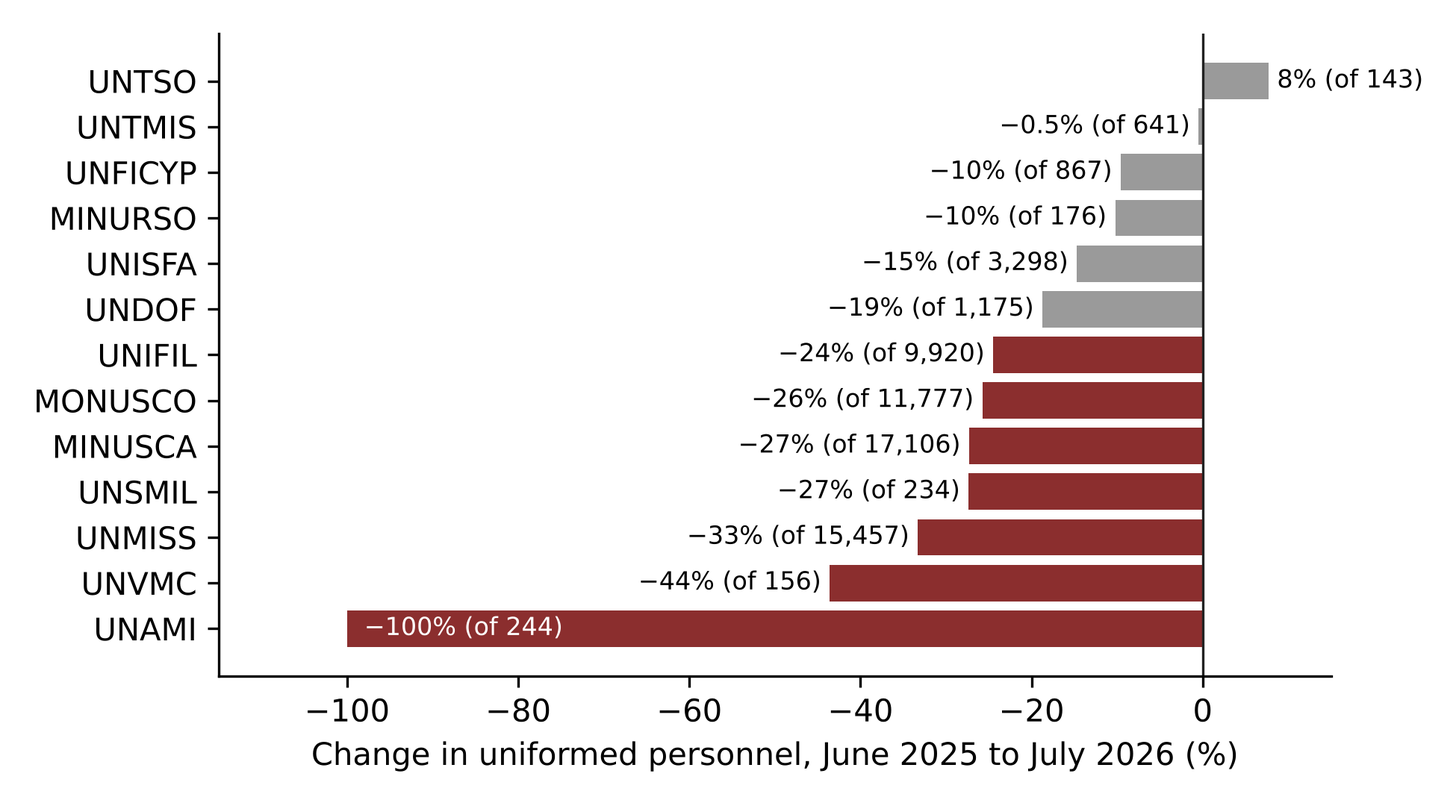
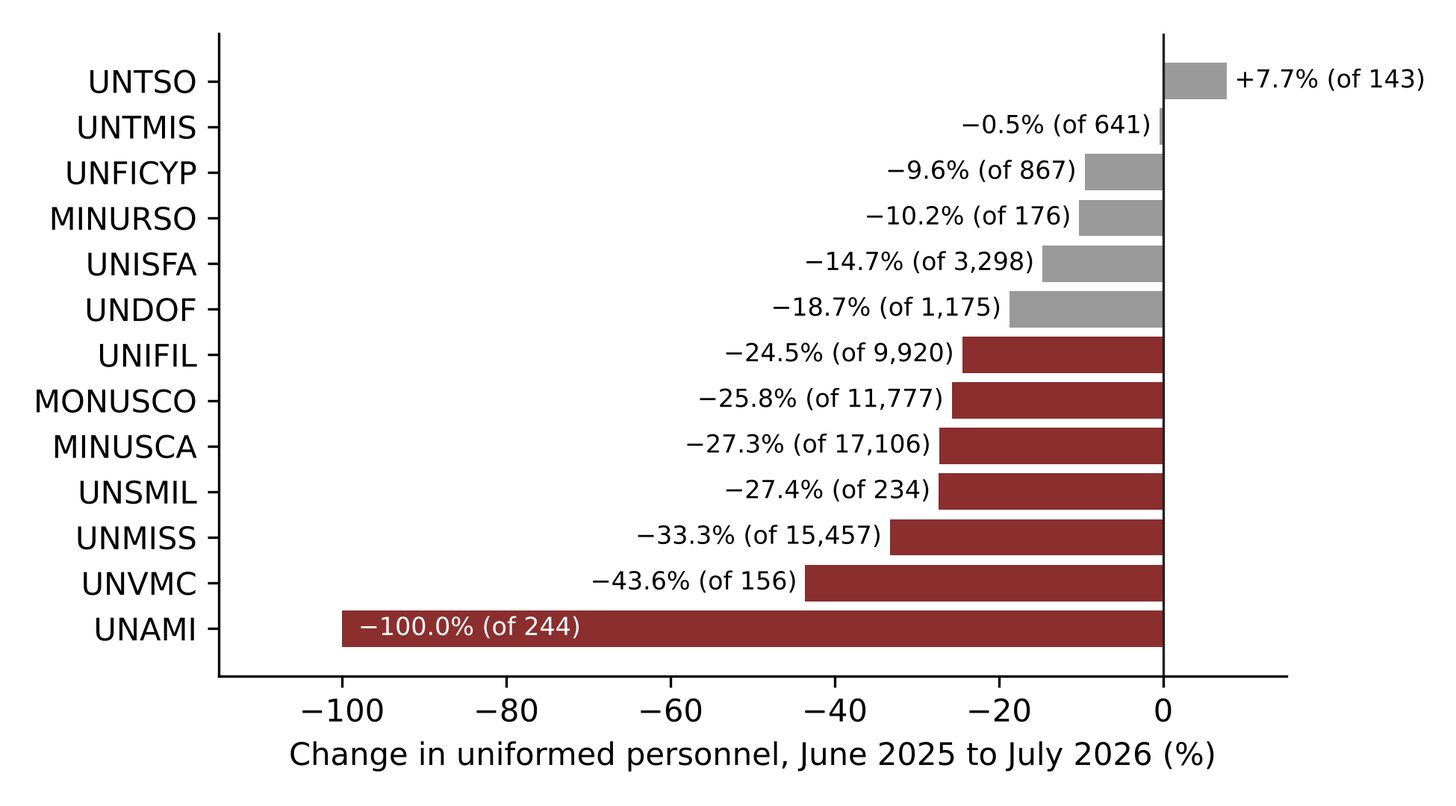
Coleman and Li contribution types (X11), Bangladesh against the reported UN letter (X12), exact wild bootstrap, C6 split saved, clearer figures

diff --git a/code/02_extra_checks.py b/code/02_extra_checks.py
@@ -7,18 +7,35 @@ Each is labelled as such in tables/extra_checks.csv and in the paper:
       (11 countries: Ethiopia and Tanzania tie for tenth place with 1,533 each; ties share the rank)
   X4  H2 without South Africa, whose contingent fell by 93%
   X5  H1 without South Africa (diagnostic for H1's low R-squared)
-  X6  Placebo C3 with UNSOM and UNTMIS treated as one mission: S/RES/2753 (2024), para. 2, renamed UNSOM
-      as UNTMIS from 1 November 2024; the plan's literal definitions treat UNSOM as closing and UNTMIS as new
+  X6  Placebo C3 with UNSOM and UNTMIS treated as one mission: S/RES/2753 (2024), para. 2, decided that
+      UNSOM "shall be called" UNTMIS and that UNTMIS "shall begin the formal transition of its functions
+      from 1 November 2024"; the UN's figures list the mission as UNTMIS from November 2024, and the plan's
+      literal definitions treat UNSOM as closing and UNTMIS as new
   X7  The cut by contributor size (the 10 largest by June 2025 personnel, 11 countries because of the tie;
       other countries with 100 or more; 20 to 99; under 20), and a weighted quadratic in ln P_c0 with a
-      joint Wald test of its two terms, to compare with Coleman and Li (2026)
+      joint Wald test of its two terms, to compare with Coleman and Li (2026). The size groups are the
+      author's own and are no longer reported in the paper (see X11); the quadratic still is.
   X8  C5 with dependence D measured from all missions (in C5 every measure comes from the remaining missions)
   X9  C5 excluding only UNAMI, UNMHA and UNVMC, where the Council's decision itself removed personnel in the
       window; MINUSCA's and UNMISS's new ceilings were above their strength when adopted
   (X8 and X9 were decided before C5 was run.)
   X10 H3 with standard errors clustered by mission (CR1, t with G - 1 degrees of freedom) and a wild cluster
-      bootstrap p-value (null imposed, Webb six-point weights, 9,999 draws, fixed seed); the plan ruled out
-      clustering because there are only ten missions
+      bootstrap p-value (null imposed, Webb six-point weights), computed exactly over every combination of
+      weights for the missions whose restricted residuals are not all zero (seven of the ten: the two
+      single-cell missions and UNAMI, whose two cells both fell by 100 percent, have zero residuals, so their
+      weights cannot change the statistic); the plan ruled out clustering because there are only ten missions
+  X11 The cut by Coleman and Li's (2026, pp. 1130-1131) three types of troop contribution, replacing X7's
+      size groups in the paper: military personnel (troops, staff officers, military experts on mission)
+      by country and mission, in missions deploying at least 1,000 troops; "top" = every contribution of
+      the UN's top 10 troop contributors (here ranked by military personnel in June 2025); "token" = a
+      contribution of fewer than 40 troops and fewer than 10 military observers or staff officers
+      (read as staff officers plus experts on mission below 10) by any other country; "other" = the rest.
+      Classified in June 2025 and followed to July 2026. Output: tables/coleman_li_types.csv, and the
+      same under two other readings (the token limit applied separately; Tanzania, level with Ethiopia in
+      tenth place by all uniformed personnel, counted as a top contributor): tables/coleman_li_readings.csv
+  X12 Bangladesh's fall in uniformed personnel by mission, September 2025 to July 2026, against the
+      numbers that a UN letter of 14 October 2025 set out for each mission, as reported by Prothom Alo
+      (19 October 2025). Output: tables/bangladesh_letter.csv
 
 Usage: python code/02_extra_checks.py  (after code/01_analysis.py)
 """
@@ -153,16 +170,139 @@ p_cr1 = 2 * stats.t.sf(abs(t_hat), G - 1)
 # restricted model (null: coefficient on ln D is zero), weighted
 rr = sm.WLS(y, Xr, weights=w).fit()
 fit_r, e_r = rr.fittedvalues.to_numpy(), rr.resid.to_numpy()
-rng = np.random.default_rng(20261030)
 webb = np.array([-np.sqrt(1.5), -1.0, -np.sqrt(0.5), np.sqrt(0.5), 1.0, np.sqrt(1.5)])
-B = 9999
-t_star = np.empty(B)
-for i in range(B):
-    v = webb[rng.integers(0, 6, size=G)][groups]
-    t_star[i] = cr1_t(fit_r + e_r * v)[1]
-p_wcb = float(np.mean(np.abs(t_star) >= abs(t_hat)))
+# Exact wild cluster bootstrap. Under the null the bootstrap outcome is fit_r + e_r * v_g; t* is computed
+# with the same CR1 variance as t_hat. Missions whose restricted residuals are all zero do not affect t*,
+# so every combination of weights for the other missions is enumerated (each equally likely).
+Xt = Xu.to_numpy() * sw[:, None]
+XtX_inv = np.linalg.inv(Xt.T @ Xt)
+jx = list(Xu.columns).index("x")
+H = Xt @ XtX_inv[jx]                      # b_x = H . y (in the weighted space)
+Mres = np.eye(len(y)) - Xt @ XtX_inv @ Xt.T  # residual maker
+n_obs, k_par = Xt.shape
+adj = G / (G - 1) * (n_obs - 1) / (n_obs - k_par)
+Gmat = np.zeros((len(y), G))
+Gmat[np.arange(len(y)), groups] = 1.0
+yt_fit, et_r = fit_r * sw, e_r * sw
+informative = [g for g in range(G) if np.abs(e_r[groups == g]).max() > 1e-9]
+n_comb = 6 ** len(informative)
+exceed = 0
+for start in range(0, n_comb, 100_000):
+    codes = np.arange(start, min(start + 100_000, n_comb))
+    V = np.ones((len(codes), G))
+    for pos, g in enumerate(informative):
+        V[:, g] = webb[(codes // 6 ** pos) % 6]
+    Ys = yt_fit[None, :] + et_r[None, :] * V[:, groups]
+    bx = Ys @ H
+    U = ((Ys @ Mres) * H[None, :]) @ Gmat
+    t_star = bx / np.sqrt(adj * (U ** 2).sum(axis=1))
+    exceed += int((np.abs(t_star) >= abs(t_hat) - 1e-12).sum())
+p_wcb = exceed / n_comb
+# check the vectorised statistic against a full re-estimation for a few weight combinations
+for code in [0, 12345, n_comb - 1]:
+    v = np.ones(G)
+    for pos, g in enumerate(informative):
+        v[g] = webb[(code // 6 ** pos) % 6]
+    Ys1 = (yt_fit + et_r * v[groups])[None, :]
+    U1 = ((Ys1 @ Mres) * H[None, :]) @ Gmat
+    t1 = float((Ys1 @ H)[0] / np.sqrt(adj * (U1 ** 2).sum()))
+    assert abs(t1 - cr1_t(fit_r + e_r * v[groups])[1]) < 1e-9
+mission_names = pd.factorize(h["mission"])[1]
+print(f"X10 wild cluster bootstrap: {len(informative)} informative missions "
+      f"({', '.join(mission_names[g] for g in informative)}), {n_comb:,} combinations, p = {p_wcb:.4f}")
 rows.append({"check": "X10 H3 clustered by mission (CR1; wild cluster bootstrap)", "coef_lnD": b_hat, "se": se_hat,
              "p": p_cr1, "p_wild_bootstrap": p_wcb, "n": len(h), "n_missions": int(G)})
+
+# X11: the cut by Coleman and Li's (2026) types of troop contribution
+MIL = ["troops", "staff_officers", "experts_on_mission"]
+
+
+def mil_cells(month):
+    d = c0[(c0["month"] == month) & c0["category"].isin(MIL)]
+    p = d.pivot_table(index=["iso3", "mission"], columns="category", values="total", aggfunc="sum",
+                      fill_value=0).reindex(columns=MIL, fill_value=0)
+    p["mil"] = p[MIL].sum(axis=1)
+    return p
+
+
+def cl_types(token_rule="sum", extra_top=()):
+    m0, m1 = mil_cells(t0m), mil_cells(t1m)
+    troops_m = m0.groupby("mission")["troops"].sum()
+    big = sorted(troops_m[troops_m >= 1000].index)  # missions "deploying at least 1000 troops"
+    rank = m0.groupby("iso3")["mil"].sum().sort_values(ascending=False)
+    assert rank.iloc[9] > rank.iloc[10], "tie at tenth place"
+    top10 = list(rank.index[:10]) + list(extra_top)
+    q = m0[m0.index.get_level_values("mission").isin(big) & (m0["mil"] > 0)].copy()
+    q["mil1"] = m1["mil"].reindex(q.index).fillna(0)
+    iso = q.index.get_level_values("iso3")
+    so_ex = q["staff_officers"] + q["experts_on_mission"]
+    small = (q["troops"] < 40) & ((so_ex < 10) if token_rule == "sum" else
+                                  ((q["staff_officers"] < 10) & (q["experts_on_mission"] < 10)))
+    q["type"] = np.select([iso.isin(top10), small], ["1 top 10", "3 token"], default="2 other")
+    q["pct"] = 100 * (q["mil1"] - q["mil"]) / q["mil"]
+    new = m1[m1.index.get_level_values("mission").isin(big) & ~m1.index.isin(q.index) & (m1["mil"] > 0)]
+    return q, big, top10, new
+
+
+def summarise(q):
+    g = q.groupby("type")
+    t = pd.DataFrame({
+        "contributions": g.size(),
+        "countries": g.apply(lambda d: d.index.get_level_values("iso3").nunique()),
+        "mil_2025_06": g["mil"].sum(), "mil_2026_07": g["mil1"].sum(),
+        "median_pct": g["pct"].median(), "ended": g.apply(lambda d: int((d["mil1"] == 0).sum())),
+        "troops_2025_06": g["troops"].sum(), "staff_officers_2025_06": g["staff_officers"].sum(),
+        "experts_2025_06": g["experts_on_mission"].sum()})
+    t.loc["4 all"] = [len(q), q.index.get_level_values("iso3").nunique(), q["mil"].sum(), q["mil1"].sum(),
+                      q["pct"].median(), int((q["mil1"] == 0).sum()), q["troops"].sum(),
+                      q["staff_officers"].sum(), q["experts_on_mission"].sum()]
+    t["pct"] = 100 * (t["mil_2026_07"] - t["mil_2025_06"]) / t["mil_2025_06"]
+    t["share_2025_06"] = 100 * t["mil_2025_06"] / q["mil"].sum()
+    ints = ["contributions", "countries", "mil_2025_06", "mil_2026_07", "ended", "troops_2025_06",
+            "staff_officers_2025_06", "experts_2025_06"]
+    t[ints] = t[ints].astype(int)
+    return t
+
+
+q11, big11, top11, new11 = cl_types("sum")
+t11 = summarise(q11)
+t11.round(4).to_csv(ROOT / "tables" / "coleman_li_types.csv")
+print("X11 missions:", ", ".join(big11))
+print("X11 top 10:", ", ".join(top11))
+print("X11 cells only in July 2026:", len(new11), "with", int(new11["mil"].sum()), "military personnel")
+print(t11.round(2).to_string())
+# Other readings: the token rule applied to staff officers and experts separately; Tanzania, level with
+# Ethiopia in tenth place by all uniformed personnel in June 2025, counted as a top contributor
+var = []
+for reading, kw in [("main", {}), ("token limit of 10 applied separately", {"token_rule": "each"}),
+                    ("Tanzania also counted as a top contributor", {"extra_top": ("TZA",)})]:
+    qv, *_ = cl_types(**kw)
+    tv = summarise(qv)
+    tv.insert(0, "reading", reading)
+    var.append(tv[["reading", "contributions", "mil_2025_06", "mil_2026_07", "pct", "median_pct", "ended"]])
+var = pd.concat(var)
+var.loc["5 only in July 2026"] = ["main", len(new11), 0, int(new11["mil"].sum()), np.nan, np.nan, 0]
+var.round(4).to_csv(ROOT / "tables" / "coleman_li_readings.csv")
+print("X11 under other readings:")
+print(var.round(2).to_string())
+rows.append({"check": "X11 Coleman and Li (2026) contribution types: see tables/coleman_li_types.csv",
+             "n": len(q11), "n_missions": len(big11)})
+
+# X12: Bangladesh by mission against the reported UN letter of 14 October 2025
+# Numbers to be withdrawn per mission, as reported by Prothom Alo, "UN fund crisis: 1,313 Bangladeshi
+# peacekeepers to return home", 19 October 2025, https://en.prothomalo.com/bangladesh/70bdwl7uuz
+LETTER = {"UNMISS": 617, "MINUSCA": 341, "UNISFA": 268, "MONUSCO": 79, "MINURSO": 8}
+bgd = (c0[(c0["iso3"] == "BGD") & c0["month"].isin(["2025-09", "2026-07"]) & c0["category"].isin(a.P_CATS)]
+       .pivot_table(index="mission", columns="month", values="total", aggfunc="sum", fill_value=0))
+bgd["fall"] = bgd["2025-09"] - bgd["2026-07"]
+bgd["letter"] = pd.Series(LETTER).reindex(bgd.index)
+bgd.loc["total"] = bgd.sum()
+bgd = bgd.astype("Int64")
+bgd.to_csv(ROOT / "tables" / "bangladesh_letter.csv")
+print("X12 Bangladesh, September 2025 to July 2026, against the reported letter:")
+print(bgd.to_string())
+rows.append({"check": "X12 Bangladesh by mission against the reported UN letter: see tables/bangladesh_letter.csv",
+             "n": int(len(bgd) - 1)})
 
 out = pd.DataFrame(rows)
 (ROOT / "tables").mkdir(exist_ok=True)

diff --git a/code/03_figures.py b/code/03_figures.py
@@ -3,6 +3,7 @@
 from pathlib import Path
 
 import matplotlib
+import matplotlib.dates
 import matplotlib.ticker
 
 matplotlib.use("Agg")
@@ -32,7 +33,9 @@ for d, lab, ha, dx in [("2025-06-01", "June 2025 ", "right", -8), ("2025-10-01",
     ax.axvline(pd.Timestamp(d), color=GREY, lw=1, ls="--")
     ax.text(pd.Timestamp(d) + pd.Timedelta(days=dx), m.values.max() / 1000 * 1.005, lab, ha=ha, va="bottom", fontsize=8, color="#555555")
 ax.set_ylabel("Uniformed personnel (thousands)")
-ax.set_ylim(40, max(m.values) / 1000 * 1.06)
+ax.set_ylim(0, max(m.values) / 1000 * 1.12)  # from zero, so the height of the fall is not exaggerated
+ax.xaxis.set_major_locator(matplotlib.dates.MonthLocator(bymonth=[1, 7]))
+ax.xaxis.set_major_formatter(matplotlib.dates.DateFormatter("%b %Y"))
 ax.grid(axis="y", color="#E5E5E5", lw=0.8)
 fig.tight_layout()
 fig.savefig(FIG / "fig1_monthly_total.png", dpi=300)
@@ -46,10 +49,8 @@ mis = mis.sort_values("pct")
 fig, ax = plt.subplots(figsize=(6.5, 3.6))
 ax.barh(mis.index, mis["pct"], color=[ACCENT if p <= -20 else GREY for p in mis["pct"]])
 def pct_label(p):
-    if 0 < abs(p) < 1:  # one decimal for small changes, so -0.5% does not show as 0%
-        return ("−" if p < 0 else "") + f"{abs(p):.1f}%"
-    v = round(p)
-    return ("−" if v < 0 else "") + f"{abs(v):.0f}%"
+    # one decimal, as in Table 2; a minus sign for falls and a plus sign for rises
+    return ("−" if p < 0 else "+") + f"{abs(p):.1f}%"
 
 
 for i, (p, x0) in enumerate(zip(mis["pct"], mis["x0"])):
@@ -75,7 +76,7 @@ r = sm.WLS(s["pct"], X, weights=s["x0"]).fit()
 xs = np.linspace(np.log(s["D"].min()), np.log(s["D"].max()), 50)
 ax.plot(np.exp(xs), r.params["const"] + r.params["D"] * xs, color=INK, lw=1.2)
 # Labels with a leader line where a plain label would sit on a neighbouring circle
-LEADER = {"PAK": (-4, 16), "URY": (-22, 10), "MWI": (0, 12)}  # offsets in points
+LEADER = {"PAK": (-4, 16), "URY": (-22, 10), "MWI": (0, 12), "BGD": (-6, -26), "IND": (0, 18), "IDN": (14, -16)}  # offsets in points
 for iso in ["RWA", "NPL", "GHA", "BGD", "IND", "CHN", "ZAF", "PAK", "IDN", "URY", "MWI"]:
     if iso not in s.index:
         continue
@@ -87,7 +88,7 @@ for iso in ["RWA", "NPL", "GHA", "BGD", "IND", "CHN", "ZAF", "PAK", "IDN", "URY"
 ax.set_xscale("log")
 ax.xaxis.set_major_formatter(matplotlib.ticker.FuncFormatter(lambda v, _: f"{v:g}"))
 ax.set_xlabel("Baseline UN payments as % of 2024 military spending (log scale)")
-ax.set_ylabel("Change in personnel (%)")
+ax.set_ylabel("Change in uniformed personnel,\nJune 2025 to July 2026 (%)")
 ax.axhline(0, color="#CCCCCC", lw=0.8)
 ax.grid(color="#EEEEEE", lw=0.6)
 fig.tight_layout()

diff --git a/code/01_analysis.py b/code/01_analysis.py
@@ -235,10 +235,11 @@ def main():
     r, *_ = run_tests(c, "C5 without separately decided drawdowns (P)", t0, t1, my, P_CATS, milex, gdppc,
                       exclude_missions=C5_MISSIONS)
     reg_rows += r
+    # C6 covers H1 and H2 only; H2 includes its split into the exposure and within-mission parts
     r, *_ = run_tests(c, "C6 unweighted (P)", t0, t1, my, P_CATS, milex, gdppc, weighted=False)
-    reg_rows += [x for x in r if x["test"].startswith("H1") or x["test"].startswith("H2 total")]
+    reg_rows += [x for x in r if x["test"].startswith("H1") or x["test"].startswith("H2")]
     r, *_ = run_tests(c, "C6 threshold 20 (P)", t0, t1, my, P_CATS, milex, gdppc, min_country=20)
-    reg_rows += [x for x in r if x["test"].startswith("H1") or x["test"].startswith("H2 total")]
+    reg_rows += [x for x in r if x["test"].startswith("H1") or x["test"].startswith("H2")]
 
     reg = pd.DataFrame(reg_rows)
     reg.to_csv(TABLES / "regressions.csv", index=False)

diff --git a/README.md b/README.md
@@ -6,11 +6,11 @@ Between June 2025 and July 2026 the number of uniformed personnel in UN missions
 
 ## Main results
 
-- **The cut fell harder on the countries most dependent on UN payments.** A country whose payments were ten times larger relative to its military budget lost about 4.6 percentage points more of its personnel (coefficient on ln *D* = -2.01, 95% interval -2.94 to -1.07). About a third of this came from the missions such countries served in, and two-thirds from within-mission differences: within the same mission, their contingents were cut more on average. At the level of country-mission cells this test is significant with heteroskedasticity-robust standard errors (p = 0.012) but not with standard errors clustered by mission (p = 0.146; wild cluster bootstrap p = 0.33), a check not in the plan.
-- **Missions explain little of the variation between countries.** The four largest missions were each cut by 24% to 33%, so the change predicted from a country's missions varies little; the weighted R² of the actual on the predicted change is 0.12, below the 0.5 the analysis plan set, so H1 fails.
+- **The cut fell harder on the countries most dependent on UN payments.** A country whose payments were ten times larger relative to its military budget lost about 4.6 percentage points more of its personnel (coefficient on ln *D* = -2.01, 95% interval -2.94 to -1.07). About a third of this came from the missions such countries served in, and two-thirds from within-mission differences: within the same mission, their contingents were cut more on average. At the level of country-mission cells this test is significant with heteroskedasticity-robust standard errors (p = 0.012) but not with standard errors clustered by mission (p = 0.146; wild cluster bootstrap p = 0.32), a check not in the plan.
+- **Missions explain little of the variation between countries.** The four largest missions were each cut by 24.5% to 33.3%, so the change predicted from a country's missions varies little; the weighted R² of the actual on the predicted change is 0.12, below the 0.5 the analysis plan set, so H1 fails.
 - **The money.** At the UN's standard rate of US$1,448 per person per month, payments owed to contributing governments fell by US$259.6 million a year. Rwanda's lost payments equal 17.4% of its 2024 military spending, Nepal's 7.1% and Ghana's 4.2%. Bangladesh's fell by US$28.0 million a year (0.75%).
-- **The largest contributors lost about as much as other large contributors** (a comparison added after the main results). The 11 largest contributors in June 2025 (Ethiopia and Tanzania tie for tenth place) lost 27.4% of their personnel, about the same as the other countries with 100 or more (26.0%) and less than those with 20 to 99 (31.7%); countries with fewer than 20 lost 15.7%. For 2010–2024, [Coleman and Li (2026)](https://doi.org/10.1080/13523260.2026.2704869) found the largest and the token contributors relatively shielded from downsizing; the size groups here need not match theirs.
-- **Checks.** The results hold from a September 2025 baseline and for troops and formed police units only, and a placebo over the 13 months before the cut shows no dependence gradient. In checks added after the main results they also hold with a size control and without South Africa or the most dependent countries. Without the five missions whose reductions the Security Council decided separately, among them MINUSCA and UNMISS (check C5), the estimates keep their size but lose precision (H2 -1.91, p = 0.049; H3 -1.78, p = 0.134). Unweighted, the gradient is not significant: it is a feature of the large contingents.
+- **Neither the largest nor the token contributors were shielded** (a comparison added after the main results, with the definitions of [Coleman and Li (2026)](https://doi.org/10.1080/13523260.2026.2704869), who found both relatively shielded from downsizing in 2010–2024). In the six missions with at least 1,000 troops, the military personnel of the ten largest troop contributors fell by 27.0% between June 2025 and July 2026, other contributions by 26.7% and token contributions (fewer than 40 troops and fewer than 10 staff officers and military experts) by 35.3%; 16 of the 154 token contributions ended.
+- **Checks.** The results hold from a September 2025 baseline and for troops and formed police units only, and a placebo over the 13 months before the cut shows no dependence gradient. In checks added after the main results they also hold with a size control and without South Africa or the most dependent countries. Without the five missions whose reductions the Security Council decided separately, among them MINUSCA and UNMISS (check C5), the estimates keep their size but lose precision (H2 -1.91, p = 0.049; H3 -1.78, p = 0.134). Unweighted, the gradient is not significant and comes mostly from the missions countries served in: it rests on the large contingents.
 
 The analysis plan was written before any of these results were computed and is the first commit of this repository: [`plan/analysis_plan.md`](plan/analysis_plan.md). Its change log records everything added later.
 
@@ -21,10 +21,10 @@ The analysis plan was written before any of these results were computed and is t
 | [`plan/analysis_plan.md`](plan/analysis_plan.md) | The dated analysis plan: question, definitions, hypotheses, checks |
 | [`code/00_get_un_data.py`](code/00_get_un_data.py) | Rebuilds the UN personnel data with peacekeeping-tracker v1.0.0 (downloads the UN's files from the UN) |
 | [`code/01_analysis.py`](code/01_analysis.py) | The analysis set out in the plan |
-| [`code/02_extra_checks.py`](code/02_extra_checks.py) | Ten checks (X1 to X10) added after the main results were seen, labelled as such in the paper and recorded in the plan's change log |
+| [`code/02_extra_checks.py`](code/02_extra_checks.py) | Twelve analyses (X1 to X12) added after the main results were seen, labelled as such in the paper and recorded in the plan's change log |
 | [`code/03_figures.py`](code/03_figures.py) | The four figures |
 | [`data/worldbank/`](data/worldbank/) | World Bank military expenditure and GDP per capita files (CC BY 4.0), as downloaded on 29 October 2026 |
-| [`tables/`](tables/) | Summary tables: missions, categories, the 20 largest contributors, dependence groups, size groups, all regressions and checks |
+| [`tables/`](tables/) | Summary tables: missions, categories, the 20 largest contributors, dependence groups, size groups, Coleman and Li's types of contribution, Bangladesh's fall by mission against a reported UN letter, all regressions and checks |
 | [`figures/`](figures/) | The figures (300 dpi) |
 | [`results/main_results.md`](results/main_results.md) | Every number the analysis computes, in one file |
 
@@ -34,7 +34,7 @@ The UN's terms of use allow its data to be downloaded for personal, non-commerci
 
 ## Reproduce it
 
-Needs Python 3.10 or later, git and an internet connection. The results were produced with Python 3.13, pandas 3.0.5, NumPy 2.5.3, statsmodels 0.15.0 and Matplotlib 3.11.2.
+Needs Python 3.10 or later, git and an internet connection. The results were produced with Python 3.13, pandas 3.0.5, NumPy 2.5.3, SciPy 1.18.1, statsmodels 0.15.0 and Matplotlib 3.11.2.
 
 ```
 pip install -r requirements.txt

diff --git a/plan/analysis_plan.md b/plan/analysis_plan.md
@@ -80,3 +80,7 @@ All tests are two-sided at the 5% level. Regressions are weighted least squares 
 - **30 October 2026, before C5 was run.** C5's missions were identified from the Security Council's resolutions: MINUSCA (resolution 2800 (2025) lowered its ceilings), UNMISS (resolution 2820 (2026) lowered its troop ceiling), UNAMI (resolution 2732 (2024): final period to 31 December 2025), UNMHA (resolution 2813 (2026): final period to 31 March 2026) and UNVMC (resolution 2798 (2025) discontinued its ceasefire-monitoring expansion and its associated resources). UNIFIL and UNTMIS are not excluded: the resolutions that end them (2790 (2025) and 2809 (2025)) take effect after the window. As coded before any result, C5 computes every measure, including *D*, from the remaining missions. Two variants, not in the plan, were added before C5 was run: *D* measured from all missions, and excluding only UNAMI, UNMHA and UNVMC, where the Council's decision itself removed personnel during the window (MINUSCA's and UNMISS's new ceilings were above their strength when adopted).
 - **30 October 2026, after an independent check of the results.** Ethiopia and Tanzania tie for tenth place in June 2025 (1,533 each), so the "ten largest contributors" in the leave-one-out check and the size groups now include both (11 countries; ties share the rank), where the earlier code had kept one of them by sort order. Added, also labelled as not in the plan: a joint Wald test of the two size terms in the quadratic, and H3 with standard errors clustered by mission and a wild cluster bootstrap p-value, which the plan did not use because there are only ten missions.
 - **30 October 2026, correction to the first entry.** Resolution 2753 (2024), paragraph 2, renamed UNSOM as UNTMIS from 1 November 2024; the first entry's "successor" and "transferred" describe the same change. The check itself is unchanged.
+- **30 October 2026, after checking Coleman and Li's (2026) article itself.** The size groups added earlier the same day (X7) are the author's own and do not match Coleman and Li's definitions, which could not be read in the article when X7 was added. Added, also labelled as not in the plan, as X11: the cut by their three types of troop contribution (pp. 1130–1131). A contribution is one country's military personnel (troops, staff officers and military experts on mission) in one mission, counted in the missions deploying at least 1,000 troops in June 2025. "Top" contributions are all those of the UN's ten largest troop contributors, ranked here by military personnel in June 2025 (there is no tie at tenth place on that measure); "token" contributions are those of other countries with fewer than 40 troops and fewer than 10 military observers or staff officers, read as staff officers plus military experts on mission below 10; "other" contributions are the rest. Contributions are classified in June 2025 and followed to July 2026. Two other readings are reported with it: the token rule applied to staff officers and experts separately, and Tanzania, level with Ethiopia in tenth place by all uniformed personnel, counted as a top contributor. The paper's Table 7 now reports X11 instead of X7's size groups, which stay in `tables/size_groups.csv`; X7's quadratic in the logarithm of June 2025 personnel is still reported.
+- **30 October 2026, after X11.** Added, also labelled as not in the plan, as X12: Bangladesh's fall in uniformed personnel in each mission from September 2025 to July 2026, set against the numbers that a UN letter of 14 October 2025 gave for each mission, as reported by Prothom Alo on 19 October 2025, to see how far the monthly figures fit that report.
+- **30 October 2026, wording of the previous correction.** Paragraph 2 of resolution 2753 (2024) decided that UNSOM "shall be called" UNTMIS and that UNTMIS "shall begin the formal transition of its functions from 1 November 2024"; the UN's monthly figures list the mission as UNTMIS from November 2024. The check itself is unchanged.
+- **30 October 2026, after a second independent check.** Two corrections to the outputs, with no change to any test: the split of H2 into its exposure and within-mission parts, which H2 includes, was computed under C6 but not saved, and is now saved in `tables/regressions.csv`; and X10's wild cluster bootstrap p-value is now computed exactly, over every combination of Webb weights for the seven missions whose restricted residuals are not all zero, instead of from 9,999 random draws (0.319, against 0.329 from the draws).

diff --git a/results/main_results.md b/results/main_results.md
@@ -47,8 +47,12 @@ C5 without separately decided drawdowns (P)               H2 within-mission part
 C5 without separately decided drawdowns (P)              H3 cell pct on ln D, mission FE -1.776367 1.184395 1.336636e-01 -4.097738  0.545004 0.090599 56         7.0
                           C6 unweighted (P)                       H1 pct on exposure pct  1.044360 0.130718 1.355790e-15  0.788157  1.300562 0.115230 55         NaN
                           C6 unweighted (P)                             H2 total on ln D -1.273405 1.475770 3.882062e-01 -4.165862  1.619051 0.017757 53         NaN
+                          C6 unweighted (P)                     H2 exposure part on ln D -1.056993 0.416961 1.124493e-02 -1.874220 -0.239765 0.115425 53         NaN
+                          C6 unweighted (P)               H2 within-mission part on ln D -0.216413 1.387975 8.760964e-01 -2.936794  2.503969 0.000580 53         NaN
                         C6 threshold 20 (P)                       H1 pct on exposure pct  1.129364 0.146833 1.454503e-14  0.841576  1.417152 0.121871 82         NaN
                         C6 threshold 20 (P)                             H2 total on ln D -1.979754 0.467969 2.331497e-05 -2.896957 -1.062551 0.108310 59         NaN
+                        C6 threshold 20 (P)                     H2 exposure part on ln D -0.639071 0.192741 9.141372e-04 -1.016836 -0.261306 0.115417 59         NaN
+                        C6 threshold 20 (P)               H2 within-mission part on ln D -1.340683 0.536328 1.242829e-02 -2.391867 -0.289499 0.056423 59         NaN
 
 ## Missions (main)
 
